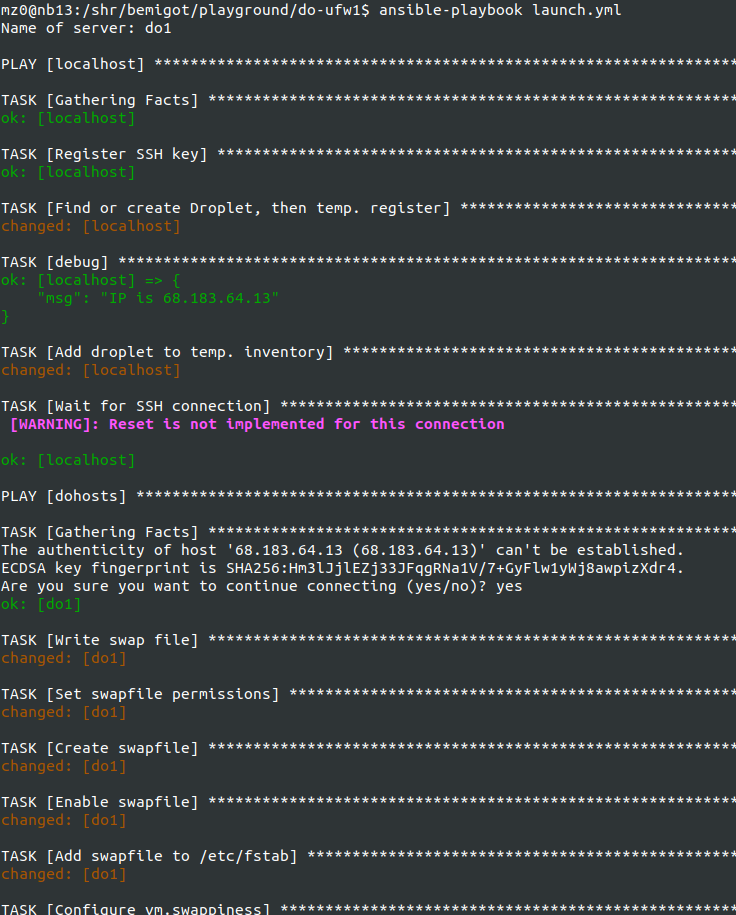
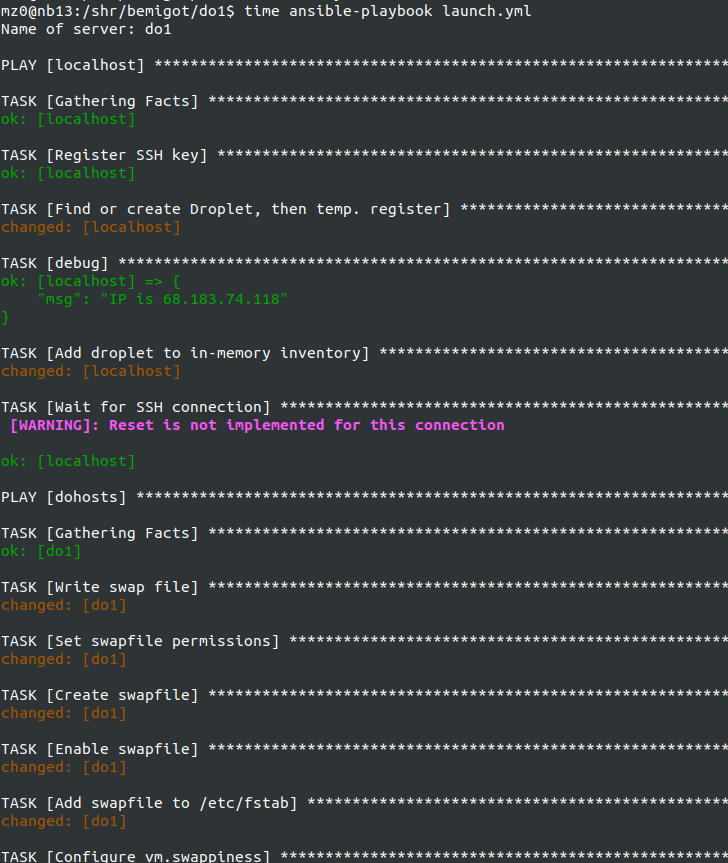
skip host key check on the 1st run
do1-log.md5 - also drop leftovers from prev. failures

Changed region(s): [[0.0, 0.0, 1.0, 1.0]]

diff --git a/doc/do1-log.md b/doc/do1-log.md
@@ -1,43 +1,5 @@
 ```
-$ ansible-playbook launch.yml
-Name of server: do1
-
-PLAY [localhost] *****************************************************************
-
-TASK [Gathering Facts] ***********************************************************
-ok: [localhost]
-
-TASK [Register SSH key] **********************************************************
-ok: [localhost]
-
-TASK [Find or create Droplet, then temp. register] *******************************
-changed: [localhost]
-
-TASK [debug] *********************************************************************
-ok: [localhost] => {
-    "msg": "IP is 104.248.251.44"
-}
-
-TASK [Add droplet to temp. inventory] ********************************************
-changed: [localhost]
-
-TASK [Wait for SSH connection] ***************************************************
- [WARNING]: Reset is not implemented for this connection
-
-ok: [localhost]
-
-PLAY [dohosts] *******************************************************************
-
-TASK [Gathering Facts] ***********************************************************
-fatal: [do1]: UNREACHABLE! => {"changed": false, "msg": "Failed to connect to the host via ssh: ssh: connect to host 104.248.251.44 port 22: Connection refused\r\n", "unreachable": true}
-	to retry, use: --limit @/shr/bemigot/playground/do-ufw1/launch.retry
-
-PLAY RECAP ***********************************************************************
-do1                        : ok=0    changed=0    unreachable=1    failed=0   
-localhost                  : ok=6    changed=2    unreachable=0    failed=0   
-
-mz0@nb13:/shr/bemigot/playground/do-ufw1$ vi launch.yml 
-mz0@nb13:/shr/bemigot/playground/do-ufw1$ ansible-playbook launch.yml
+$ time ansible-playbook launch.yml
 Name of server: do1
 
 PLAY [localhost] *****************************************************************
@@ -56,7 +18,7 @@ ok: [localhost] => {
     "msg": "IP is 68.183.64.13"
 }
 
-TASK [Add droplet to temp. inventory] ********************************************
+TASK [Add droplet to in-memory inventory] ****************************************
 changed: [localhost]
 
 TASK [Wait for SSH connection] ***************************************************
@@ -67,9 +29,6 @@ ok: [localhost]
 PLAY [dohosts] *******************************************************************
 
 TASK [Gathering Facts] ***********************************************************
-The authenticity of host '68.183.64.13 (68.183.64.13)' can't be established.
-ECDSA key fingerprint is SHA256:Hm3lJjlEZj33JFqgRNa1V/7+GyFlw1yWj8awpizXdr4.
-Are you sure you want to continue connecting (yes/no)? yes
 ok: [do1]
 
 TASK [Write swap file] ***********************************************************
@@ -135,4 +94,9 @@ changed: [do1]
 PLAY RECAP ***********************************************************************
 do1                        : ok=18   changed=15   unreachable=0    failed=0   
 localhost                  : ok=6    changed=2    unreachable=0    failed=0   
+
+
+real	4m12,104s
+user	0m32,541s
+sys	0m8,726s
 ```
